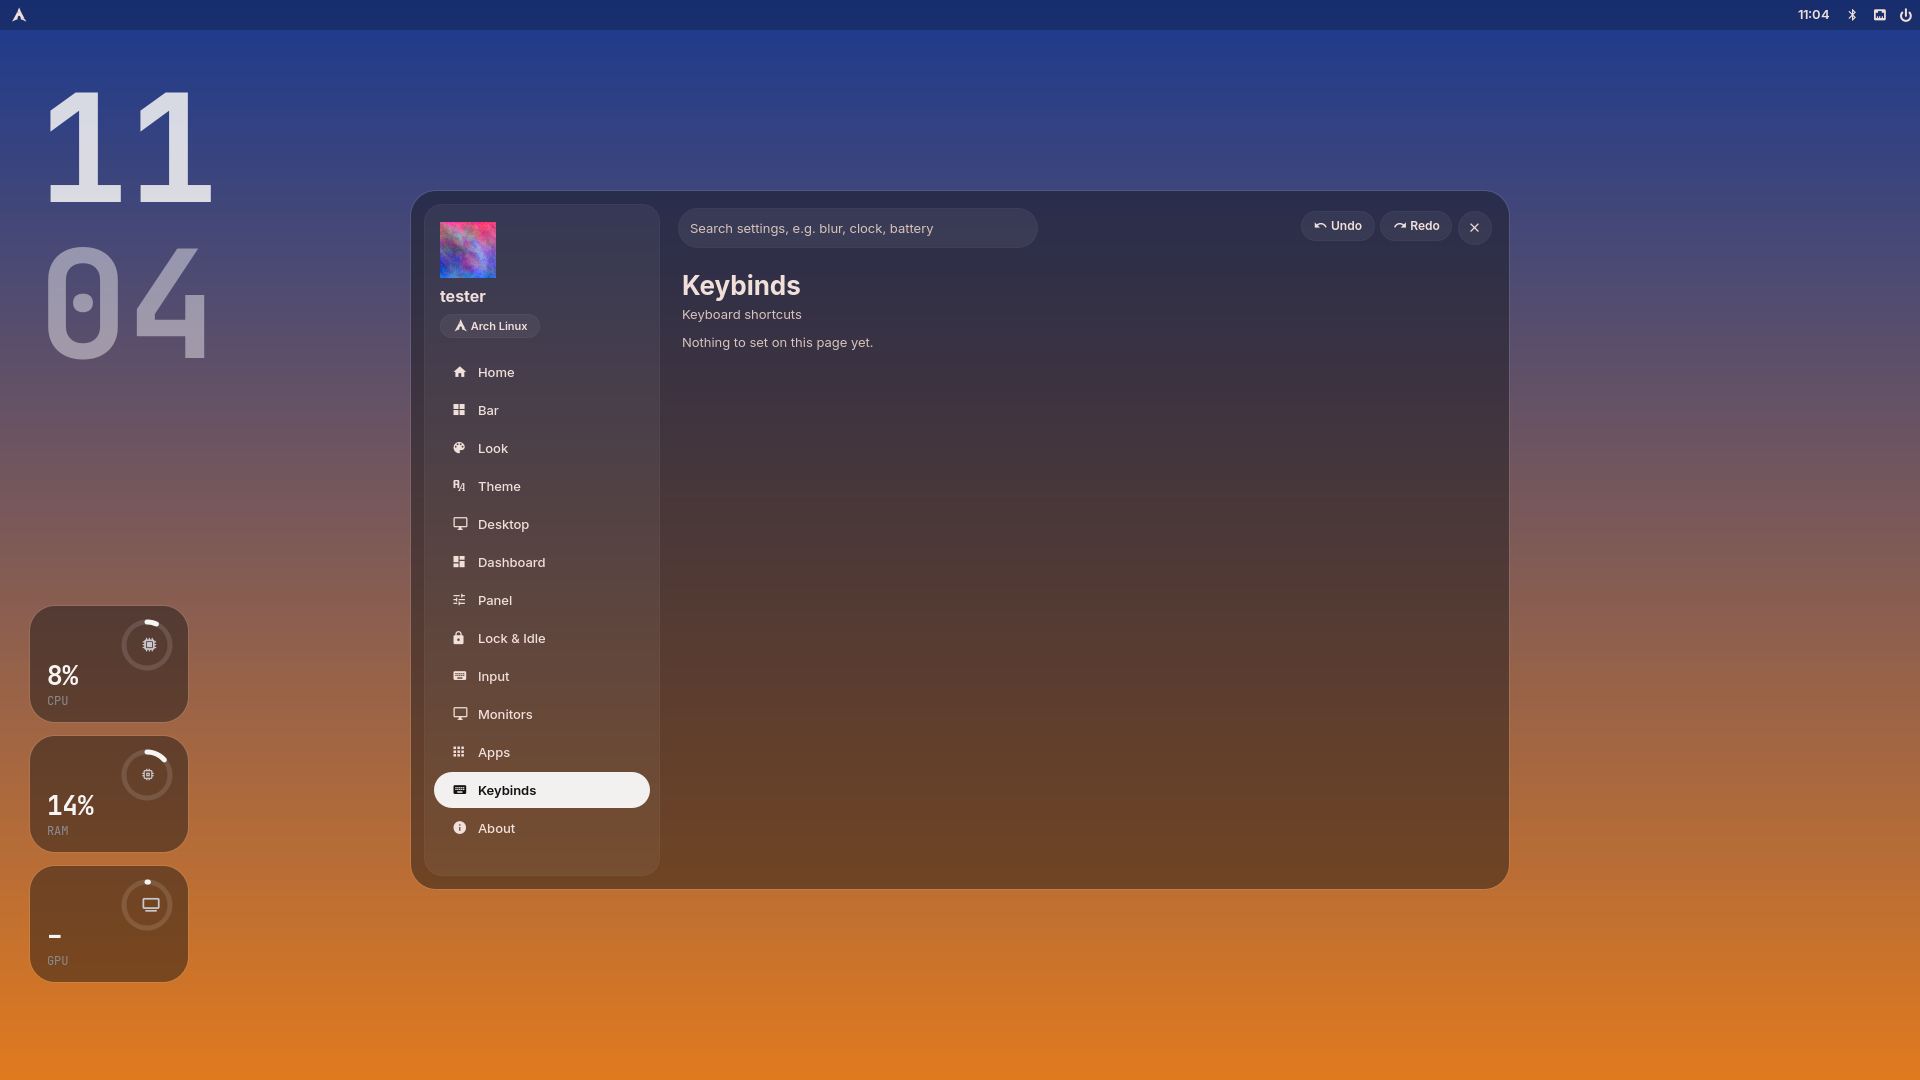
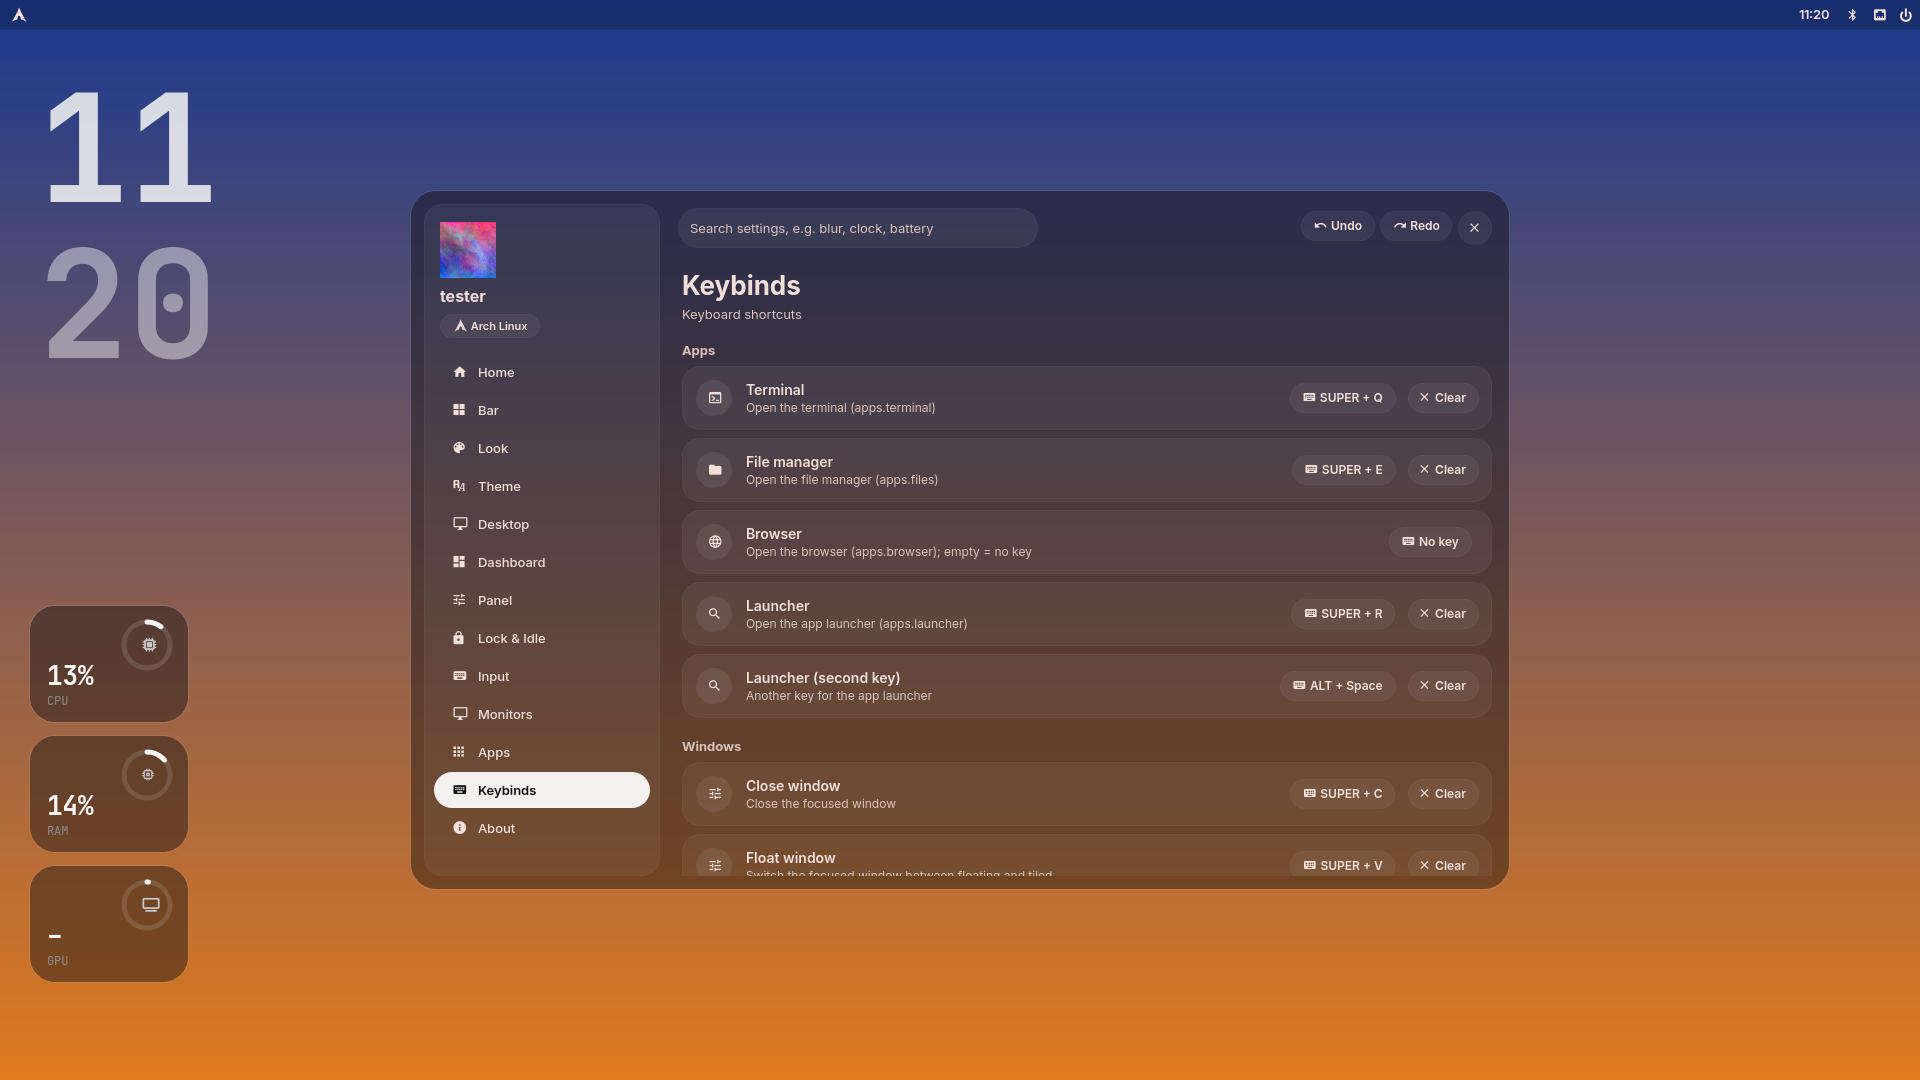
feat: Desktop-Widgets im Bearbeiten-Modus verschieben
Closes #38

Claude-Session: https://claude.ai/code/session_014v7J7CoG2qjrD3GTHiN5ya

diff --git a/quickshell/desktop/EditOverlay.qml b/quickshell/desktop/EditOverlay.qml
@@ -1,0 +1,140 @@
+import QtQuick
+import Quickshell
+import Quickshell.Wayland
+import "../common"
+
+// Bearbeiten-Modus (SUPER+ALT+W oder "Edit on desktop" in den Einstellungen): eine Fläche über dem
+// ganzen Bildschirm. Uhr und Kacheln bekommen einen Rahmen, lassen sich ziehen und mit dem Mausrad
+// skalieren; Hilfslinien an Rändern und Mitte, beim Annähern rasten sie ein. Oben Done, Cancel und
+// Reset positions; Esc bricht ab. Die Widgets selbst nehmen weiterhin keine Klicks an.
+PanelWindow {
+    id: ov
+    property var clockWin
+    property var tilesWin
+    readonly property real sw: screen ? screen.width : 1920
+    readonly property real sh: screen ? screen.height : 1080
+    readonly property real snap: 10
+    // aktive Hilfslinien (beim Ziehen): Liste von {v: true/false, pos}
+    property var guides: []
+
+    visible: Ui.editDesktop && screen !== null
+    anchors { top: true; bottom: true; left: true; right: true }
+    color: Qt.rgba(0, 0, 0, 0.28)
+    exclusionMode: ExclusionMode.Ignore
+    WlrLayershell.layer: WlrLayer.Overlay
+    WlrLayershell.namespace: "hypr-shell-edit"
+    WlrLayershell.keyboardFocus: Ui.editDesktop ? WlrKeyboardFocus.Exclusive : WlrKeyboardFocus.None
+
+    Item {
+        id: keys
+        anchors.fill: parent
+        focus: true
+        Keys.onEscapePressed: Ui.cancelEdit()
+    }
+    onVisibleChanged: if (visible) { guides = []; keys.forceActiveFocus() }
+
+    // ---- feste Hilfslinien: Mitte und Ränder (2 %)
+    Repeater {
+        model: [
+            { v: true, pos: ov.sw / 2 }, { v: false, pos: ov.sh / 2 },
+            { v: true, pos: ov.sw * 0.02 }, { v: true, pos: ov.sw * 0.98 },
+            { v: false, pos: ov.sh * 0.04 }, { v: false, pos: ov.sh * 0.96 }
+        ]
+        delegate: Rectangle {
+            required property var modelData
+            readonly property bool hot: ov.guides.some(g => g.v === modelData.v && Math.abs(g.pos - modelData.pos) < 0.5)
+            x: modelData.v ? modelData.pos - width / 2 : 0
+            y: modelData.v ? 0 : modelData.pos - height / 2
+            width: modelData.v ? (hot ? 2 : 1) : ov.sw
+            height: modelData.v ? ov.sh : (hot ? 2 : 1)
+            color: hot ? Qt.rgba(1, 1, 1, 0.9) : Qt.rgba(1, 1, 1, 0.16)
+        }
+    }
+
+    // ---- Rahmen je Widget
+    Repeater {
+        model: [
+            { which: "clock", label: "Clock", win: ov.clockWin },
+            { which: "resources", label: "Tiles", win: ov.tilesWin }
+        ]
+        delegate: Rectangle {
+            id: fr
+            required property var modelData
+            readonly property string which: modelData.which
+            readonly property var win: modelData.win
+            visible: win !== undefined && win !== null && win.visible
+            x: Ui.widget(which, "x", 0) * ov.sw
+            y: Ui.widget(which, "y", 0) * ov.sh
+            width: win ? win.implicitWidth : 100
+            height: win ? win.implicitHeight : 100
+            color: drag.pressed ? Qt.rgba(1, 1, 1, 0.10) : Qt.rgba(1, 1, 1, 0.04)
+            radius: 14
+            border.width: 2
+            border.color: drag.pressed || hov.hovered ? Qt.rgba(1, 1, 1, 0.95) : Qt.rgba(1, 1, 1, 0.55)
+
+            Pill {
+                anchors { left: parent.left; bottom: parent.top; bottomMargin: 8 }
+                clickable: false
+                implicitHeight: 26
+                fontSize: 11
+                icon: ""
+                text: fr.modelData.label + " · " + Math.round(Ui.widget(fr.which, "scale", 1) * 100) + " %"
+            }
+            HoverHandler { id: hov; cursorShape: drag.pressed ? Qt.ClosedHandCursor : Qt.OpenHandCursor }
+            MouseArea {
+                id: drag
+                anchors.fill: parent
+                property real ox: 0
+                property real oy: 0
+                onPressed: mouse => { ox = mouse.x; oy = mouse.y }
+                onPositionChanged: mouse => {
+                    if (!pressed) return
+                    const p = mapToItem(null, mouse.x, mouse.y)
+                    const r = ov.snapTo(p.x - ox, p.y - oy, fr.width, fr.height)
+                    Ui.moveDraft(fr.which, r.x / ov.sw, r.y / ov.sh)
+                }
+                onReleased: ov.guides = []
+                onWheel: wheel => Ui.scaleDraft(fr.which, Ui.widget(fr.which, "scale", 1) + (wheel.angleDelta.y > 0 ? 0.05 : -0.05))
+            }
+            Probe { name: "edit-" + fr.which }
+        }
+    }
+    // an Mitte und Rändern einrasten; gibt die neue Lage zurück und merkt die aktiven Linien
+    function snapTo(x, y, w, h) {
+        const g = []
+        const vx = [sw / 2, sw * 0.02, sw * 0.98], hy = [sh / 2, sh * 0.04, sh * 0.96]
+        let nx = x, ny = y
+        for (const t of vx) {
+            if (Math.abs(x - t) < snap) { nx = t; g.push({ v: true, pos: t }); break }
+            if (Math.abs(x + w / 2 - t) < snap) { nx = t - w / 2; g.push({ v: true, pos: t }); break }
+            if (Math.abs(x + w - t) < snap) { nx = t - w; g.push({ v: true, pos: t }); break }
+        }
+        for (const t of hy) {
+            if (Math.abs(y - t) < snap) { ny = t; g.push({ v: false, pos: t }); break }
+            if (Math.abs(y + h / 2 - t) < snap) { ny = t - h / 2; g.push({ v: false, pos: t }); break }
+            if (Math.abs(y + h - t) < snap) { ny = t - h; g.push({ v: false, pos: t }); break }
+        }
+        guides = g
+        return { x: Math.max(0, Math.min(sw - 20, nx)), y: Math.max(0, Math.min(sh - 20, ny)) }
+    }
+
+
+    // ---- Leiste oben: Done, Cancel, Reset positions
+    GlassPanel {
+        id: bar
+        anchors { horizontalCenter: parent.horizontalCenter; top: parent.top; topMargin: 48 }
+        width: barRow.implicitWidth + 28
+        height: 52
+        radius: 26
+        glassOpacity: 0.85
+        Row {
+            id: barRow
+            anchors.centerIn: parent
+            spacing: 10
+            Txt { anchors.verticalCenter: parent.verticalCenter; text: "Drag to move · scroll to resize · Esc cancels"; size: 13; weight: Font.DemiBold; rightPadding: 6 }
+            Pill { text: "Reset positions"; icon: ""; onClicked: Ui.resetDraft(); Probe { name: "edit-reset" } }
+            Pill { text: "Cancel"; icon: ""; onClicked: Ui.cancelEdit(); Probe { name: "edit-cancel" } }
+            Pill { text: "Done"; icon: ""; active: true; onClicked: Ui.finishEdit(); Probe { name: "edit-done" } }
+        }
+    }
+}

diff --git a/quickshell/common/Ui.qml b/quickshell/common/Ui.qml
@@ -22,6 +22,56 @@ Singleton {
     function closeSettings() { settingsOpen = false }
     function toggleSettings(page) { if (settingsOpen) closeSettings(); else openSettings(page) }
 
+    // ---- Bearbeiten-Modus für die Desktop-Widgets (SUPER+ALT+W): Entwurf der Positionen
+    // (Anteil der Bildschirmgrösse) und Grössen; gespeichert wird erst mit Done (ein Schritt im Verlauf)
+    property bool editDesktop: false
+    property var draft: ({})
+    function current(w) {
+        return {
+            x: Settings.get("desktop." + w + ".x", 0), y: Settings.get("desktop." + w + ".y", 0),
+            scale: Settings.get("desktop." + w + ".scale", 1)
+        }
+    }
+    function startEdit() {
+        draft = { clock: current("clock"), resources: current("resources") }
+        settingsOpen = false
+        editDesktop = true
+    }
+    function cancelEdit() { editDesktop = false }
+    function resetDraft() {
+        const d = Settings.defaults.desktop || {}
+        const pick = (o, fx, fy) => ({ x: o && o.x !== undefined ? o.x : fx, y: o && o.y !== undefined ? o.y : fy, scale: o && o.scale !== undefined ? o.scale : 1 })
+        draft = { clock: pick(d.clock, 0.02, 0.045), resources: pick(d.resources, 0.015, 0.56) }
+    }
+    function moveDraft(w, x, y) {
+        const d = Object.assign({}, draft)
+        d[w] = Object.assign({}, d[w], { x: Math.max(0, Math.min(1, x)), y: Math.max(0, Math.min(1, y)) })
+        draft = d
+    }
+    function scaleDraft(w, f) {
+        const d = Object.assign({}, draft)
+        d[w] = Object.assign({}, d[w], { scale: Math.max(0.3, Math.min(3, Math.round(f * 20) / 20)) })
+        draft = d
+    }
+    function finishEdit() {
+        const r = v => String(Math.round(v * 1000) / 1000)
+        const args = ["set"]
+        for (const w of ["clock", "resources"]) {
+            const c = current(w), n = draft[w]
+            if (!n) continue
+            if (r(n.x) !== r(c.x)) args.push("desktop." + w + ".x", r(n.x))
+            if (r(n.y) !== r(c.y)) args.push("desktop." + w + ".y", r(n.y))
+            if (r(n.scale) !== r(c.scale)) args.push("desktop." + w + ".scale", r(n.scale))
+        }
+        if (args.length > 1) run(args)
+        editDesktop = false
+    }
+    // Position/Grösse eines Widgets: im Bearbeiten-Modus der Entwurf, sonst settings.json
+    function widget(w, what, fallback) {
+        if (editDesktop && draft[w] && draft[w][what] !== undefined) return draft[w][what]
+        return Settings.get("desktop." + w + "." + what, fallback)
+    }
+
     // ---- shell-set: Befehle der Reihe nach; beim Ziehen eines Reglers zählt nur der neueste Wert
     property var queue: []
     property var liveArgs: null
@@ -66,6 +116,12 @@ Singleton {
             const s = p.parent
             for (let i = 1; i <= 4; i++) s.moved(s.snap(s.from + (s.to - s.from) * frac * i / 4))
             s.released(s.snap(s.from + (s.to - s.from) * frac))
+            return true
+        }
+        // Widget im Bearbeiten-Modus ziehen (derselbe Aufruf wie beim Ziehen mit der Maus)
+        function moveWidget(which: string, x: real, y: real): bool {
+            if (!ui.editDesktop) return false
+            ui.moveDraft(which, x, y)
             return true
         }
         function dragStart(name: string, frac: real): bool {

diff --git a/quickshell/settings/SettingsContent.qml b/quickshell/settings/SettingsContent.qml
@@ -175,7 +175,8 @@ FocusScope {
                 page: modelData
                 showTitle: modelData.id !== "home"
                 skip: modelData.id === "monitors" ? ["monitors.outputs"] : []
-                extra: modelData.id === "home" ? homeC : modelData.id === "monitors" ? monitorsC : modelData.id === "about" ? aboutC : null
+                extra: modelData.id === "home" ? homeC : modelData.id === "monitors" ? monitorsC
+                     : modelData.id === "about" ? aboutC : modelData.id === "desktop" ? desktopC : null
                 footer: keys.length === 0 && ["home", "about", "monitors"].indexOf(modelData.id) < 0 ? emptyC : null
                 Component.onCompleted: pageHolder.current = sp
             }
@@ -184,6 +185,25 @@ FocusScope {
     Component { id: homeC; HomePage { } }
     Component { id: monitorsC; MonitorsPage { } }
     Component { id: aboutC; AboutPage { } }
+    Component {
+        id: desktopC
+        GlassCard {
+            height: 64
+            Txt {
+                anchors { left: parent.left; leftMargin: 18; verticalCenter: parent.verticalCenter }
+                text: "Move and resize the clock and tiles with the mouse (SUPER + ALT + W)"
+                size: 13
+            }
+            Pill {
+                anchors { right: parent.right; rightMargin: 14; verticalCenter: parent.verticalCenter }
+                icon: ""
+                text: "Edit on desktop"
+                active: true
+                onClicked: Ui.startEdit()
+                Probe { name: "edit-on-desktop" }
+            }
+        }
+    }
     Component { id: emptyC; Txt { text: "Nothing to set on this page yet."; sub: true; size: 13 } }
 
     // ---- Treffer der Suche

diff --git a/quickshell/desktop/ResourcesWidget.qml b/quickshell/desktop/ResourcesWidget.qml
@@ -10,7 +10,7 @@ import "../common"
 // sie wird dafür nicht geweckt.
 PanelWindow {
     id: w
-    readonly property real k: (screen ? screen.height : 1080) / 1080 * Settings.get("desktop.resources.scale", 1.0)
+    readonly property real k: (screen ? screen.height : 1080) / 1080 * Ui.widget("resources", "scale", 1.0)
     property var gpu: ({ state: "unknown", util: null })
     readonly property real gpuUtil: gpu.state === "active" && typeof gpu.util === "number" ? gpu.util : -1
 
@@ -21,12 +21,12 @@ PanelWindow {
     WlrLayershell.keyboardFocus: WlrKeyboardFocus.None
     anchors { top: true; left: true }
     margins {
-        left: Math.round(Settings.get("desktop.resources.x", 0.015) * (screen ? screen.width : 1920))
-        top: Math.round(Settings.get("desktop.resources.y", 0.56) * (screen ? screen.height : 1080))
+        left: Math.round(Ui.widget("resources", "x", 0.015) * (screen ? screen.width : 1920))
+        top: Math.round(Ui.widget("resources", "y", 0.56) * (screen ? screen.height : 1080))
     }
     implicitWidth: Math.ceil(col.implicitWidth)
     implicitHeight: Math.ceil(col.implicitHeight)
-    mask: Region { }
+    mask: Region { }   // nimmt keine Klicks an (auch nicht im Bearbeiten-Modus: dort liegt eine eigene Fläche darüber)
 
     // Kacheln und Reihenfolge aus settings.json (desktop.resources.tiles: cpu, ram, gpu, disk)
     readonly property var tiles: Settings.get("desktop.resources.tiles", ["cpu", "ram", "gpu"])

diff --git a/quickshell/desktop/ClockWidget.qml b/quickshell/desktop/ClockWidget.qml
@@ -8,7 +8,7 @@ import "../common"
 // Position als Anteil der Bildschirmgrösse aus settings.json (desktop.clock.x / .y).
 PanelWindow {
     id: w
-    readonly property real k: (screen ? screen.height : 1080) / 1080 * Settings.get("desktop.clock.scale", 1.0)
+    readonly property real k: (screen ? screen.height : 1080) / 1080 * Ui.widget("clock", "scale", 1.0)
     readonly property real size: 150 * k
     readonly property bool h12: Settings.get("desktop.clock.format", "24h") === "12h"
     function hours(d) {
@@ -23,8 +23,8 @@ PanelWindow {
     WlrLayershell.keyboardFocus: WlrKeyboardFocus.None
     anchors { top: true; left: true }
     margins {
-        left: Math.round(Settings.get("desktop.clock.x", 0.02) * (screen ? screen.width : 1920))
-        top: Math.round(Settings.get("desktop.clock.y", 0.045) * (screen ? screen.height : 1080))
+        left: Math.round(Ui.widget("clock", "x", 0.02) * (screen ? screen.width : 1920))
+        top: Math.round(Ui.widget("clock", "y", 0.045) * (screen ? screen.height : 1080))
     }
     implicitWidth: Math.ceil(stack.implicitWidth) + 4
     implicitHeight: Math.ceil(stack.implicitHeight)
@@ -38,6 +38,7 @@ PanelWindow {
         Text {
             anchors.horizontalCenter: parent.horizontalCenter
             text: w.hours(clock.date)
+            Probe { name: "desktop-clock" }
             font.family: Theme.clock
             font.pixelSize: w.size
             font.bold: true

diff --git a/quickshell/desktop/Desktop.qml b/quickshell/desktop/Desktop.qml
@@ -1,18 +1,34 @@
 import QtQuick
 import Quickshell
+import Quickshell.Io
 import "../common"
 
-// Desktop-Widgets hinter den Fenstern: grosse Uhr und Auslastungs-Ringe.
+// Desktop-Widgets hinter den Fenstern: grosse Uhr und Auslastungs-Kacheln, dazu der
+// Bearbeiten-Modus zum Verschieben und Skalieren (SUPER+ALT+W).
 Scope {
     id: d
     readonly property var screen: Settings.screenFor(Settings.get("desktop.screen", ""))
 
+    IpcHandler {
+        target: "desktop"
+        function edit(): void { Ui.startEdit() }
+        function done(): void { if (Ui.editDesktop) Ui.finishEdit() }
+        function cancel(): void { Ui.cancelEdit() }
+    }
+
     ClockWidget {
+        id: clock
         screen: d.screen
         visible: d.screen !== null && Settings.get("desktop.clock.enabled", true)
     }
     ResourcesWidget {
+        id: tiles
         screen: d.screen
         visible: d.screen !== null && Settings.get("desktop.resources.enabled", true)
+    }
+    EditOverlay {
+        screen: d.screen
+        clockWin: clock
+        tilesWin: tiles
     }
 }

diff --git a/README.md b/README.md
@@ -88,6 +88,7 @@ her. Die Sicherungsordner bleiben liegen. Danach abmelden und wieder anmelden.
 | `SUPER + W` | Dashboard im Tab Wallpaper |
 | `SUPER + A` | Hot-Corner-Panel öffnen / schliessen |
 | `SUPER + U` | Einstellungs-App öffnen / schliessen |
+| `SUPER + ALT + W` | Uhr und Kacheln auf dem Desktop verschieben und skalieren |
 | `Print` | Screenshot eines Bereichs (speichern + Zwischenablage) |
 | `SHIFT + Print` | Screenshot des ganzen Bildschirms (speichern + Zwischenablage) |
 | `XF86AudioRaiseVolume` / `XF86AudioLowerVolume` | Lautstärke + / − |
@@ -119,6 +120,13 @@ neu starten, herunterfahren).
 Hinter den Fenstern eine grosse gestapelte Uhr (JetBrainsMono, Stunden kräftig, Minuten
 blasser) und drei Glas-Kacheln mit Ringen für CPU, Arbeitsspeicher und Grafikkarte. Schläft
 die NVIDIA-Karte (Hybrid-Grafik), zeigt die GPU-Kachel „–“ – sie wird dafür nicht geweckt.
+
+**Verschieben:** `SUPER + ALT + W` (oder „Edit on desktop“ auf der Seite Desktop der
+Einstellungs-App) schaltet in den Bearbeiten-Modus: Uhr und Kacheln bekommen einen Rahmen, lassen sich
+mit der Maus ziehen und mit dem Mausrad grösser oder kleiner machen; an den Rändern und der Mitte
+rasten sie an Hilfslinien ein. Oben stehen **Done** (speichern), **Cancel** und **Reset positions**;
+`Esc` bricht ab. Gespeichert wird die Lage als Anteil der Bildschirmgrösse (`desktop.clock.x` …), die
+Grösse als Faktor (`desktop.clock.scale`). Ausserhalb des Modus nehmen die Widgets keine Klicks an.
 
 ![Desktop](docs/screenshots/desktop.png)
 
@@ -332,6 +340,7 @@ Die Tab-Taste vervollständigt in bash und fish Befehle, Schlüssel und erlaubte
 | `keybinds.dashboard` | `"SUPER + ALT + D"` | Open or close the dashboard |
 | `keybinds.wallpaper` | `"SUPER + W"` | Open the dashboard on the Wallpaper tab |
 | `keybinds.panel` | `"SUPER + A"` | Open or close the hot corner panel |
+| `keybinds.edit_desktop` | `"SUPER + ALT + W"` | Move and resize the clock and tiles with the mouse |
 | `keybinds.settings` | `"SUPER + U"` | Open or close this settings app (cannot be empty) |
 | `keybinds.lock` | `"SUPER + L"` | Lock the screen |
 | `keybinds.exit` | `"SUPER + M"` | Leave Hyprland |

diff --git a/docs/abnahme.md b/docs/abnahme.md
@@ -117,3 +117,12 @@ dem echten Rechner in einer Hyprland-Sitzung prüfbar.
 | Eine doppelte Belegung wird abgelehnt und benannt | automatisch (`shell-set`, beide Richtungen); in der App wird die Aktion genannt und nicht gespeichert – Aufnehmen per Tastendruck von Hand |
 | Ohne Einträge in `keybinds` gelten alle bisherigen Kürzel | automatisch (genau die bisherigen Kürzel) |
 | SUPER+U lässt sich nicht leeren | automatisch |
+
+## Widgets verschieben
+
+| Punkt | Prüfung |
+| --- | --- |
+| Eine verschobene Uhr steht nach Done und nach Neuanmeldung am neuen Platz | automatisch: Done speichert, nach Neustart der Oberfläche steht die Uhr dort (`tests/oberflaeche.sh`); Ziehen mit der echten Maus von Hand |
+| Cancel und Esc lassen alles wie vorher | Cancel automatisch, Esc (gleiche Funktion) über `ipc desktop cancel`; die Taste selbst von Hand |
+| Ausserhalb des Modus nehmen die Widgets keine Klicks an | leere Eingabefläche (`mask`) automatisch; von Hand |
+| Mausrad skaliert, Hilfslinien rasten ein | von Hand |

diff --git a/CHANGELOG.md b/CHANGELOG.md
@@ -11,6 +11,7 @@ Versionen nach [Semantic Versioning](https://semver.org/lang/de/).
 - Befehl `shell-set` zum Ändern, Zurücksetzen und Rückgängigmachen von Einstellungen, dazu Profile, Export/Import und Tab-Vervollständigung für bash und fish (#33)
 - Einstellungs-App (SUPER+U oder Zahnrad im Panel) mit Schaltern, Reglern, Listen, Farbwähler, Suche, Zurücksetzen, Undo und Profilen; Bildschirme mit 15-Sekunden-Bestätigung (#35)
 - Tastenkürzel ansehen, ändern und eigene anlegen (Einstellungs-App → Keybinds, `shell-set keybinds.…`); doppelte Belegungen werden abgelehnt und benannt, ohne Änderung gelten die bisherigen Kürzel (#37)
+- Uhr und Kacheln mit der Maus verschieben und skalieren (SUPER+ALT+W oder „Edit on desktop“), mit Hilfslinien, Done, Cancel und Reset positions (#38)
 
 ## 1.1.0 – 2026-11-23
 
